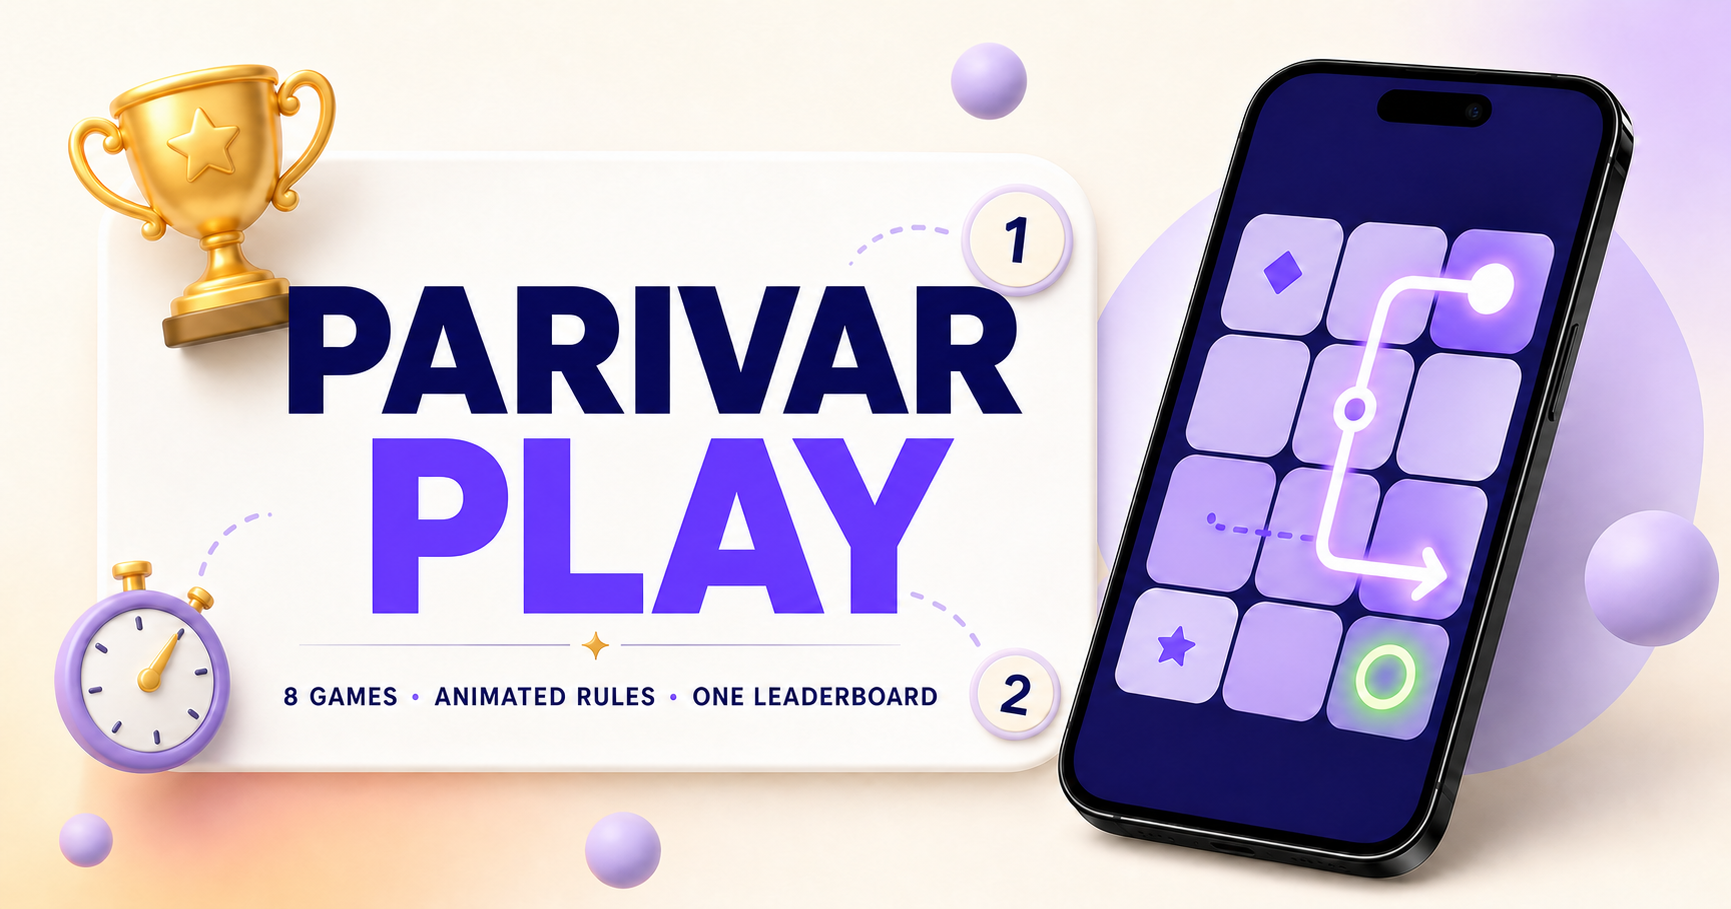
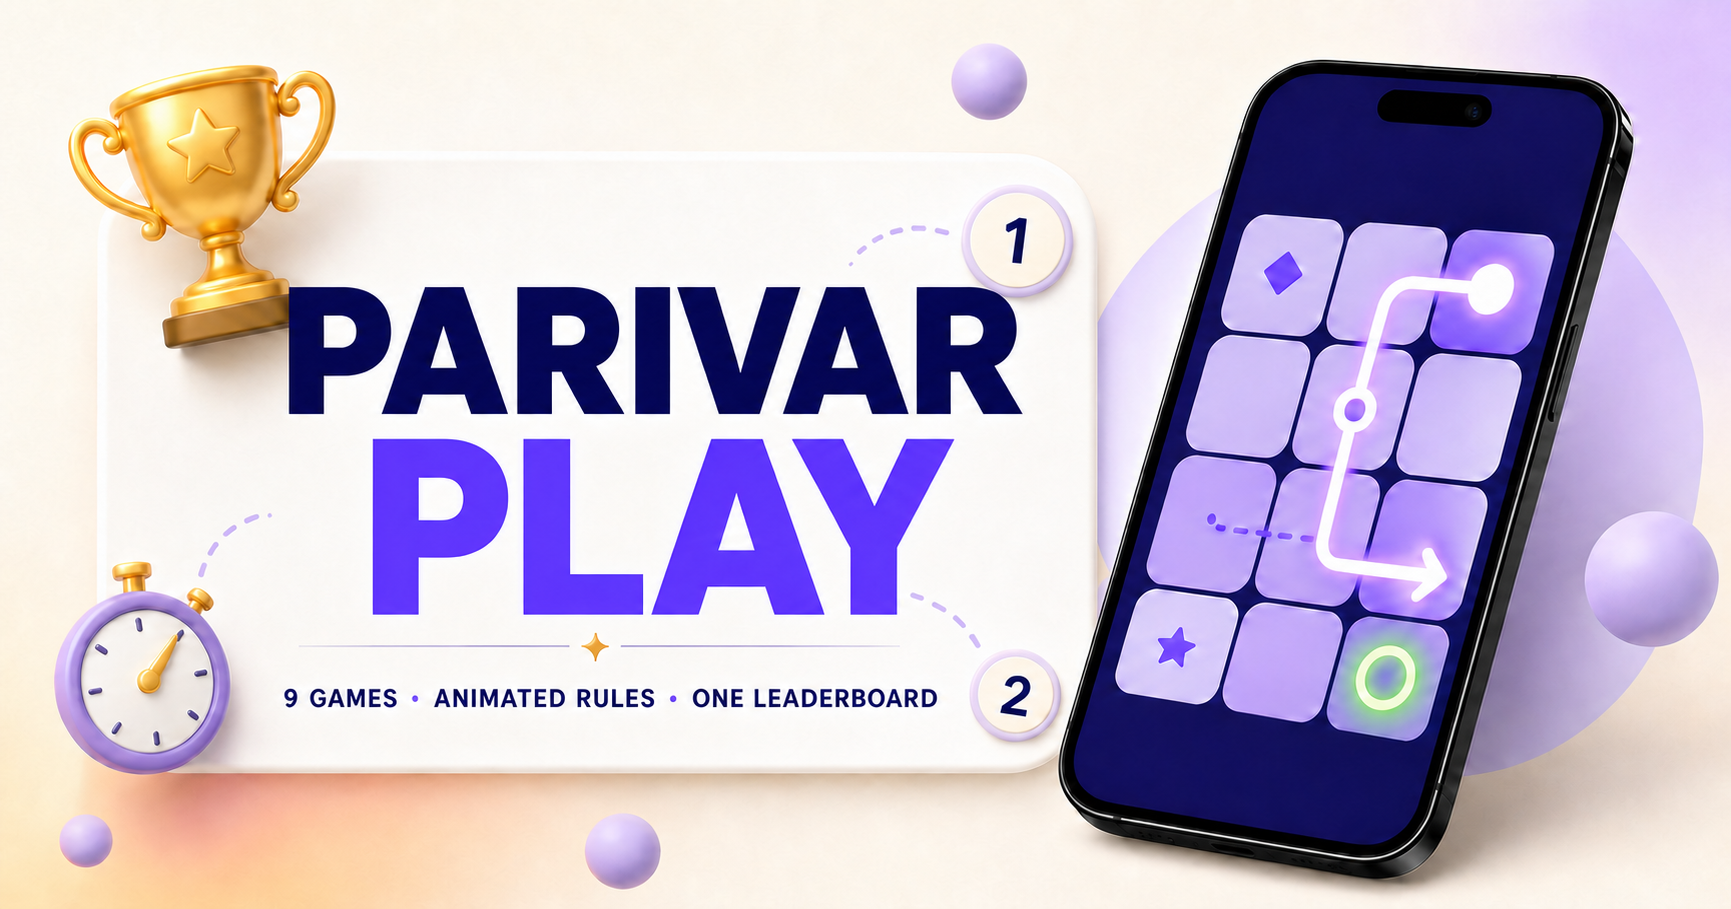
Update Parivar Play game lineup

diff --git a/app/globals.css b/app/globals.css
@@ -91,7 +91,7 @@ button, a { -webkit-tap-highlight-color: transparent; }
 .found-words .pop-word { animation: pop-word .5s 1.45s both; color: #16883d; background: #e7f9ec; }
 .found-words .diagonal-word { animation-delay: 2.35s; color: #6b3fd6; background: #f0eaff; }
 
-/* Number Flow */
+/* Speed Sprint */
 .flow-demo { height: 100%; display: flex; flex-direction: column; justify-content: center; gap: 8%; }
 .flow-board { width: 88%; aspect-ratio: 1; margin: 0 auto; display: grid; grid-template-columns: repeat(6, 1fr); border: 1px solid #cfc9c4; border-radius: 3px; overflow: hidden; background: #fffdfb; }
 .flow-cell { position: relative; aspect-ratio: 1; display: grid; place-items: center; border-right: 1px solid #ddd7d2; border-bottom: 1px solid #ddd7d2; color: #2d2926; font-size: clamp(10px, .85vw, 15px); font-weight: 900; }
@@ -172,21 +172,28 @@ button, a { -webkit-tap-highlight-color: transparent; }
 /* Samay */
 .samay-demo { height: 100%; display: flex; flex-direction: column; align-items: center; justify-content: center; gap: 4%; }
 .target-time { display: flex; gap: 9px; align-items: baseline; padding: 6px 11px; border-radius: 9px; background: #f1ebff; color: var(--navy); animation: target-reveal .4s both; }.target-time small { color: var(--purple); font-size: clamp(7px, .56vw, 10px); font-weight: 900; }.target-time b { font-size: clamp(16px, 1.35vw, 23px); }
-.samay-play { width: 76%; display: grid; grid-template-columns: 1fr .62fr; align-items: center; gap: 12%; }
-.timer-ring { position: relative; width: 100%; aspect-ratio: 1; display: grid; place-items: center; border: 8px solid #ded3fb; border-radius: 50%; color: var(--navy); font-size: clamp(16px, 1.45vw, 25px); font-weight: 900; }
-.timer-ring i { position: absolute; left: calc(50% - 1.5px); top: 10%; width: 3px; height: 40%; background: #ff6762; transform-origin: 50% 100%; animation: clock-spin 1.35s cubic-bezier(.2,.8,.4,1) forwards; }
-.timer-running { letter-spacing: .12em; animation: timer-hide .2s 1.35s forwards; }.timer-stopped { position: absolute; opacity: 0; animation: timer-stop .3s 1.45s forwards; }
+.samay-play { width: 88%; display: grid; grid-template-columns: 1fr .48fr; align-items: center; gap: 10%; }
+.digital-timer { position: relative; min-height: 82px; display: grid; place-items: center; padding: 20px 10px 8px; border: 5px solid var(--navy); border-radius: 12px; background: #201d32; color: #8df3ad; box-shadow: inset 0 0 0 2px #49435e, 0 7px 16px #24166c25; font-family: ui-monospace, SFMono-Regular, Menlo, monospace; font-size: clamp(20px, 1.8vw, 31px); font-weight: 900; letter-spacing: .08em; }
+.digital-timer small { position: absolute; top: 7px; color: #bdb6d4; font: 700 clamp(6px, .45vw, 8px)/1 ui-sans-serif, system-ui, sans-serif; letter-spacing: .14em; }
+.timer-running { animation: timer-hide .2s 1.35s forwards; }.timer-stopped { position: absolute; top: 34px; opacity: 0; animation: timer-stop .3s 1.45s forwards; }
 .stop-demo-button { aspect-ratio: 1; display: grid; place-items: center; border-radius: 50%; background: linear-gradient(145deg,#ff8177,#e94745); color: #fff; box-shadow: 0 7px 0 #b93636, 0 10px 17px #ee5d5650; font-size: clamp(8px, .7vw, 12px); font-weight: 900; animation: stop-press .28s 1.25s forwards; }
 .time-results { display: grid; gap: 4px; width: 94%; font-size: clamp(7px, .56vw, 10px); }
 .time-results > div { position: relative; display: grid; grid-template-columns: .45fr .7fr 1fr; align-items: center; gap: 5px; padding: 5px 7px; border-radius: 7px; background: #fff; color: var(--navy); opacity: 0; transform: translateY(7px); animation: result-reveal .32s var(--delay) forwards; }
 .time-results strong { font-size: 1.1em; }.time-results small { color: var(--muted); }.time-results .winner { padding-right: 64px; border: 1px solid #9bdcaf; background: #e7f9ec; color: #15883d; }.time-results em { position: absolute; right: 6px; color: #15883d; font-size: 7px; font-style: normal; font-weight: 900; }
 .round-winner { width: 94%; padding: 6px; border-radius: 8px; background: var(--navy); color: #ffe28d; text-align: center; font-size: clamp(8px, .65vw, 11px); font-weight: 900; opacity: 0; animation: pop-word .42s 2.8s forwards; }
 
-/* Haaji Naaji */
-.haaji-demo { height: 100%; display: flex; flex-direction: column; justify-content: center; gap: 8%; }
-.treasure { align-self: center; color: var(--purple); font-size: 11px; font-weight: 900; }.treasure b { display: block; color: var(--navy); font-size: 30px; text-align: center; }
-.choice-row { display: grid; grid-template-columns: repeat(3, 1fr); gap: 6px; }.choice-row div { display: flex; flex-direction: column; align-items: center; gap: 5px; padding: 10px 3px; border: 1px solid #ddcffd; border-radius: 10px; background: #fff; transform: rotateY(90deg); animation: card-flip .45s calc(var(--i, 1) * .2s + .4s) forwards; }.choice-row i { display: grid; place-items: center; width: 25px; height: 25px; border-radius: 50%; background: var(--lavender); color: var(--navy); font-size: 9px; font-style: normal; font-weight: 900; }.choice-row b { color: var(--purple); font-size: 10px; }.choice-row small { color: var(--muted); font-size: 8px; }
-.choice-result { text-align: center; color: var(--muted); font-size: 10px; opacity: 0; animation: pop-word .45s 1.45s forwards; }.choice-result b { color: var(--navy); font-size: 13px; }.choice-result span { display: inline-block; margin-left: 8px; padding: 4px 8px; border-radius: 6px; background: var(--pale-gold); color: var(--navy); font-weight: 900; }
+/* Perfect Pairs */
+.pairs-demo { height: 100%; display: flex; flex-direction: column; justify-content: center; gap: 5%; }
+.pairs-top { display: flex; align-items: center; justify-content: space-between; color: var(--purple); font-size: clamp(7px,.54vw,10px); }.pairs-top span { padding: 4px 7px; border-radius: 6px; background: var(--navy); color: #fff; font-weight: 900; }.pairs-top strong { color: #e94758; letter-spacing: 2px; }
+.pairs-board { display: grid; grid-template-columns: repeat(4, 1fr); grid-template-rows: repeat(5, 1fr); gap: 5px; }
+.pairs-board span { position: relative; aspect-ratio: 1.18; display: grid; place-items: center; border: 2px solid #d9ccfb; border-radius: 7px; background: #fff; color: var(--purple); font-size: clamp(12px,1vw,18px); transform-style: preserve-3d; animation: pairs-flip 3.2s 1 both; }
+.pairs-board span b,.pairs-board span i { position: absolute; backface-visibility: hidden; }.pairs-board span i { transform: rotateY(180deg); color: #fff; font-style: normal; font-weight: 900; }.pairs-board span.matched { border-color: #65c482; background: #e7f9ec; color: #16883d; }
+.pairs-status,.math-keyboard { padding: 6px; border-radius: 7px; background: #f1ebff; color: var(--purple); text-align: center; font-size: clamp(7px,.52vw,9px); font-weight: 900; }
+
+/* Math Mania */
+.math-demo { height: 100%; display: flex; flex-direction: column; justify-content: center; gap: 5%; }
+.math-timer { align-self: center; color: var(--navy); font-size: clamp(18px,1.55vw,27px); font-weight: 900; }.math-timer span { display: block; color: var(--muted); font-size: 7px; text-align: center; letter-spacing: .12em; }
+.math-player { display: grid; grid-template-columns: 30px 1fr auto; align-items: center; gap: 7px; padding: 7px; border: 1px solid #ded4f7; border-radius: 9px; background: #fff; color: var(--navy); opacity: 0; transform: translateX(-12px); animation: guess-in .35s calc(var(--i) * .22s + .2s) forwards; }.math-player > b { display: grid; place-items: center; width: 28px; height: 28px; border-radius: 8px; background: var(--lavender); font-size: 9px; }.math-player div { display: flex; align-items: baseline; gap: 5px; }.math-player small { color: var(--muted); font-weight: 800; }.math-player strong { padding: 3px 6px; border-bottom: 2px solid var(--purple); font-size: 12px; }.math-player i { color: var(--purple); font-style: normal; animation: pulse .7s infinite; }.math-player > span { color: var(--purple); font-size: 7px; font-weight: 900; }.math-player.math-leader { border-color: #9bdcaf; background: #e7f9ec; }.math-player.math-leader > span { color: #16883d; }
 
 /* Scoring */
 .scoring-demo { height: 100%; display: flex; flex-direction: column; justify-content: center; gap: 6%; padding: 4%; }.points-row { display: grid; grid-template-columns: 1fr auto; align-items: center; padding: 9px 14px; border-radius: 10px; color: var(--navy); transform: translateX(-20px); opacity: 0; animation: guess-in .4s calc(var(--i, 1) * .2s) forwards; }.points-row span { font-size: 24px; font-weight: 900; }.points-row.gold { background: #fff0b8; animation-delay: .2s; }.points-row.silver { background: #efebf4; animation-delay: .5s; }.points-row.bronze { background: #f3d6c5; animation-delay: .8s; }.bonus-card { display: flex; justify-content: space-between; padding: 10px; border: 1px dashed var(--purple); border-radius: 10px; color: var(--purple); font-size: 10px; }.score-equation { text-align: center; color: var(--navy); font-size: 10px; font-weight: 900; }
@@ -296,13 +303,13 @@ button, a { -webkit-tap-highlight-color: transparent; }
 @keyframes player-three-turn { 0%, 40%, 63%, 100% { border-color: #ded4f7; box-shadow: none; background: #fff; } 42%, 61% { border-color: #f47a32; box-shadow: 0 0 0 3px #f47a3230; background: #fff2e9; } }
 @keyframes guess-in { to { opacity: 1; transform: translateX(0); } }
 @keyframes cross-letter { from { color: transparent; } to { color: var(--navy); background: #e9f8ed; } }
-@keyframes clock-spin { from { transform: rotate(0deg); } to { transform: rotate(354deg); } }
 @keyframes target-reveal { from { opacity: 0; transform: translateY(-6px); } to { opacity: 1; transform: translateY(0); } }
 @keyframes timer-hide { to { opacity: 0; } }
 @keyframes timer-stop { from { opacity: 0; transform: scale(.7); } to { opacity: 1; transform: scale(1); } }
 @keyframes stop-press { 50% { transform: translateY(6px) scale(.94); box-shadow: 0 2px 0 #b93636, 0 4px 8px #ee5d5630; } 100% { transform: translateY(4px); box-shadow: 0 3px 0 #b93636, 0 5px 10px #ee5d5635; } }
 @keyframes result-reveal { to { opacity: 1; transform: translateY(0); } }
 @keyframes card-flip { to { transform: rotateY(0); } }
+@keyframes pairs-flip { 0%, 38% { transform: rotateY(0); background: #fff; } 48%, 100% { transform: rotateY(180deg); background: var(--purple); border-color: #8f74e5; } }
 
 @media (max-width: 900px), (max-aspect-ratio: 5/6) {
   body { overflow: auto; }

diff --git a/app/page.tsx b/app/page.tsx
@@ -11,7 +11,8 @@ type DemoKind =
   | "codebreaker"
   | "crossword"
   | "samay"
-  | "haaji"
+  | "pairs"
+  | "math"
   | "scoring"
   | "leaderboard";
 
@@ -34,7 +35,7 @@ const slideLibrary: Slide[] = [
     number: "00",
     title: "Parivar Play",
     shortTitle: "Welcome",
-    eyebrow: "8 GAMES · ONE LEADERBOARD",
+    eyebrow: "9 GAMES · ONE LEADERBOARD",
     victory: "Play bold. Finish on top.",
     rules: [
       "Split everyone into three-player teams",
@@ -46,7 +47,7 @@ const slideLibrary: Slide[] = [
     ],
     demo: "overview",
     demoLabel: "TONIGHT'S LINEUP",
-    demoMeta: "8 GAMES",
+    demoMeta: "9 GAMES",
   },
   {
     number: "01",
@@ -68,8 +69,8 @@ const slideLibrary: Slide[] = [
   },
   {
     number: "02",
-    title: "Number Flow",
-    shortTitle: "Number Flow",
+    title: "Speed Sprint",
+    shortTitle: "Speed Sprint",
     eyebrow: "CONNECT EVERY NUMBER",
     victory: "First to finish 3 rounds",
     rules: [
@@ -162,13 +163,13 @@ const slideLibrary: Slide[] = [
   },
   {
     number: "07",
-    title: "Samay Sparsh",
-    shortTitle: "Samay Sparsh",
+    title: "Time Tap",
+    shortTitle: "Time Tap",
     eyebrow: "CATCH THE TARGET TIME",
     victory: "Closest player wins",
     rules: [
       "A target duration is announced",
-      "The visible clock disappears when the round begins",
+      "The digital clock disappears when the round begins",
       "Each player stops their timer by instinct",
       "Early and late guesses are both measured",
       "The closest time wins that round",
@@ -181,25 +182,42 @@ const slideLibrary: Slide[] = [
   },
   {
     number: "08",
-    title: "Haaji Naaji",
-    shortTitle: "Haaji Naaji",
-    eyebrow: "SHARE, STEAL, BLUFF",
-    victory: "Most treasure wins",
+    title: "Perfect Pairs",
+    shortTitle: "Perfect Pairs",
+    eyebrow: "MEMORIZE · MATCH · SURVIVE",
+    victory: "Find every pair before losing 5 lives",
     rules: [
-      "Three players negotiate before every choice",
-      "Secretly choose Haaji (share) or Naaji (steal)",
-      "One thief takes the whole pot",
-      "Multiple thieves cancel one another out",
-      "All sharers split the pot evenly",
-      "The biggest treasure pot appears last",
+      "Study all 20 cards face-up for 7 seconds",
+      "Memorize the pairs on the 5×4 board together",
+      "After the cards flip down, players take turns",
+      "Flip two cards and keep every correct pair",
+      "An incorrect pair costs the team one life",
+      "Find all ten pairs before all five lives are gone",
     ],
-    demo: "haaji",
-    demoLabel: "SECRET CHOICE",
-    demoMeta: "POT 300",
-    link: "https://compromise-trial.onrender.com/",
+    demo: "pairs",
+    demoLabel: "TEAM MEMORY BOARD",
+    demoMeta: "5 LIVES",
   },
   {
     number: "09",
+    title: "Math Mania",
+    shortTitle: "Math Mania",
+    eyebrow: "THINK FAST · TYPE FASTER",
+    victory: "Most correct answers wins",
+    rules: [
+      "All three players receive arithmetic questions",
+      "Solve as many questions as possible before time runs out",
+      "Type each answer using the keyboard",
+      "Submit an answer to move to the next question",
+      "Only correct answers count toward your score",
+      "The player with the most correct answers wins the round",
+    ],
+    demo: "math",
+    demoLabel: "ARITHMETIC SPRINT",
+    demoMeta: "P2 LEADS",
+  },
+  {
+    number: "10",
     title: "Overall Scoring",
     shortTitle: "Scoring",
     eyebrow: "ONE FORMULA · EVERY GAME",
@@ -212,11 +230,11 @@ const slideLibrary: Slide[] = [
     ],
     demo: "scoring",
     demoLabel: "POINTS SYSTEM",
-    demoMeta: "8 GAMES",
+    demoMeta: "9 GAMES",
   },
   {
     active: false,
-    number: "10",
+    number: "11",
     title: "Final Leaderboard",
     shortTitle: "Leaderboard",
     eyebrow: "THE FINAL COUNT",
@@ -249,7 +267,7 @@ const wordGrid = [
 function OverviewDemo() {
   return (
     <div className="overview-demo">
-      {["WORD", "FLOW", "BOX", "MINE", "CODE", "CLUE", "TIME", "PICK"].map((item, i) => (
+      {["WORD", "SPEED", "BOX", "MINE", "CODE", "CLUE", "TIME", "PAIRS", "MATH"].map((item, i) => (
         <div className="overview-tile" style={{ "--i": i } as React.CSSProperties} key={item}>
           <span>{String(i + 1).padStart(2, "0")}</span>{item}
         </div>
@@ -385,12 +403,17 @@ function CrosswordDemo() {
 
 function SamayDemo() {
   const results = [["P1", "9.84s", "0.16 early"], ["P2", "10.06s", "0.06 late"], ["P3", "10.41s", "0.41 late"]];
-  return <div className="samay-demo"><div className="target-time"><small>TARGET TIME</small><b>10.00s</b></div><div className="samay-play"><div className="timer-ring"><i/><span className="timer-running">•••</span><span className="timer-stopped">9.84</span></div><div className="stop-demo-button" role="img" aria-label="Player presses the stop button"><span>STOP</span></div></div><div className="time-results">{results.map(([player,time,difference],i) => <div className={player === "P2" ? "winner" : ""} style={{ "--delay": `${1.9 + i * 0.2}s` } as React.CSSProperties} key={player}><b>{player}</b><strong>{time}</strong><small>{difference}</small>{player === "P2" && <em>★ CLOSEST</em>}</div>)}</div><div className="round-winner">★ P2 WINS THE ROUND</div></div>;
+  return <div className="samay-demo"><div className="target-time"><small>TARGET TIME</small><b>10.00s</b></div><div className="samay-play"><div className="digital-timer" aria-label="Digital timer"><small>ELAPSED</small><span className="timer-running">--.--</span><span className="timer-stopped">09.84</span></div><div className="stop-demo-button" role="img" aria-label="Player presses the stop button"><span>STOP</span></div></div><div className="time-results">{results.map(([player,time,difference],i) => <div className={player === "P2" ? "winner" : ""} style={{ "--delay": `${1.9 + i * 0.2}s` } as React.CSSProperties} key={player}><b>{player}</b><strong>{time}</strong><small>{difference}</small>{player === "P2" && <em>★ CLOSEST</em>}</div>)}</div><div className="round-winner">★ P2 WINS THE ROUND</div></div>;
 }
 
-function HaajiDemo() {
-  const choices = [["P1", "HAAJI", "share"], ["P2", "NAAJI", "steal"], ["P3", "HAAJI", "share"]];
-  return <div className="haaji-demo"><div className="treasure">POT <b>300</b></div><div className="choice-row">{choices.map(([player, choice, meaning], i) => <div style={{ "--i": i } as React.CSSProperties} key={player}><i>{player}</i><b>{choice}</b><small>{meaning}</small></div>)}</div><div className="choice-result">ONE THIEF<br/><b>TAKES THE POT</b><span>+300</span></div></div>;
+function PairsDemo() {
+  const symbols = ["★", "●", "▲", "◆", "♥", "☀", "✿", "♣", "☂", "♫", "★", "●", "▲", "◆", "♥", "☀", "✿", "♣", "☂", "♫"];
+  return <div className="pairs-demo"><div className="pairs-top"><b>MEMORIZE</b><span>7 SECONDS</span><strong>♥ ♥ ♥ ♥ ♥</strong></div><div className="pairs-board">{symbols.map((symbol, i) => <span className={i === 0 || i === 10 ? "matched" : ""} style={{ "--i": i } as React.CSSProperties} key={`${symbol}-${i}`}><b>{symbol}</b><i>?</i></span>)}</div><div className="pairs-status">TEAM TURN · FIND ALL 10 PAIRS</div></div>;
+}
+
+function MathDemo() {
+  const players = [["P1", "7", "12 + 8"], ["P2", "9", "6 × 4"], ["P3", "6", "15 − 7"]];
+  return <div className="math-demo"><div className="math-timer">00:24 <span>REMAINING</span></div>{players.map(([player, score, question], i) => <div className={`math-player${player === "P2" ? " math-leader" : ""}`} style={{ "--i": i } as React.CSSProperties} key={player}><b>{player}</b><div><small>{question} =</small><strong>{player === "P2" ? "24" : player === "P1" ? "20" : "8"}<i>▌</i></strong></div><span>{score} CORRECT</span></div>)}<div className="math-keyboard">TYPE ANSWER · PRESS ENTER</div></div>;
 }
 
 function ScoringDemo() {
@@ -456,7 +479,8 @@ function Demo({ kind }: { kind: DemoKind }) {
     case "codebreaker": return <CodebreakerDemo />;
     case "crossword": return <CrosswordDemo />;
     case "samay": return <SamayDemo />;
-    case "haaji": return <HaajiDemo />;
+    case "pairs": return <PairsDemo />;
+    case "math": return <MathDemo />;
     case "scoring": return <ScoringDemo />;
     case "leaderboard": return <LeaderboardDemo />;
   }
@@ -529,7 +553,7 @@ export default function Home() {
       </nav>
 
       <div className={`slide-frame${slide.demo === "scoring" ? " scoring-slide" : slide.demo === "overview" ? " welcome-slide" : ""}`} aria-live="polite">
-        {slide.demo === "overview" ? <img className="welcome-art" src="/parivar-play-welcome.png" alt="Parivar Play — eight games, animated rules, one leaderboard" /> : <><div className="decor decor-top"/><div className="decor decor-right"/><div className="decor decor-bottom"/><div className="decor decor-dot"/>{slide.demo === "scoring" ? <ScoringPage /> : <><InstructionCard slide={slide} /><div key={`${slide.number}-${demoKey}`} className="demo-remount"><Phone slide={slide} replay={() => setDemoKey((key) => key + 1)} /></div></>}<span className="page-number">{slide.number}</span></>}
+        {slide.demo === "overview" ? <img className="welcome-art" src="/parivar-play-welcome.png" alt="Parivar Play — nine games, animated rules, one leaderboard" /> : <><div className="decor decor-top"/><div className="decor decor-right"/><div className="decor decor-bottom"/><div className="decor decor-dot"/>{slide.demo === "scoring" ? <ScoringPage /> : <><InstructionCard slide={slide} /><div key={`${slide.number}-${demoKey}`} className="demo-remount"><Phone slide={slide} replay={() => setDemoKey((key) => key + 1)} /></div></>}<span className="page-number">{slide.number}</span></>}
       </div>
 
       <footer className="deck-controls">

diff --git a/app/layout.tsx b/app/layout.tsx
@@ -3,18 +3,18 @@ import "./globals.css";
 
 export const metadata: Metadata = {
   title: "Parivar Play — Interactive Presentation",
-  description: "An animated, page-by-page guide to eight multiplayer games and their scoring system.",
+  description: "An animated, page-by-page guide to nine multiplayer games and their scoring system.",
   icons: { icon: "/favicon.svg", shortcut: "/favicon.svg" },
   openGraph: {
     title: "Parivar Play — Interactive Presentation",
-    description: "Eight games, animated rules, and one leaderboard.",
+    description: "Nine games, animated rules, and one leaderboard.",
     type: "website",
     images: [{ url: "/og-parivar-play.png", width: 1731, height: 909, alt: "Parivar Play interactive presentation" }],
   },
   twitter: {
     card: "summary_large_image",
     title: "Parivar Play — Interactive Presentation",
-    description: "Eight games, animated rules, and one leaderboard.",
+    description: "Nine games, animated rules, and one leaderboard.",
     images: ["/og-parivar-play.png"],
   },
 };
